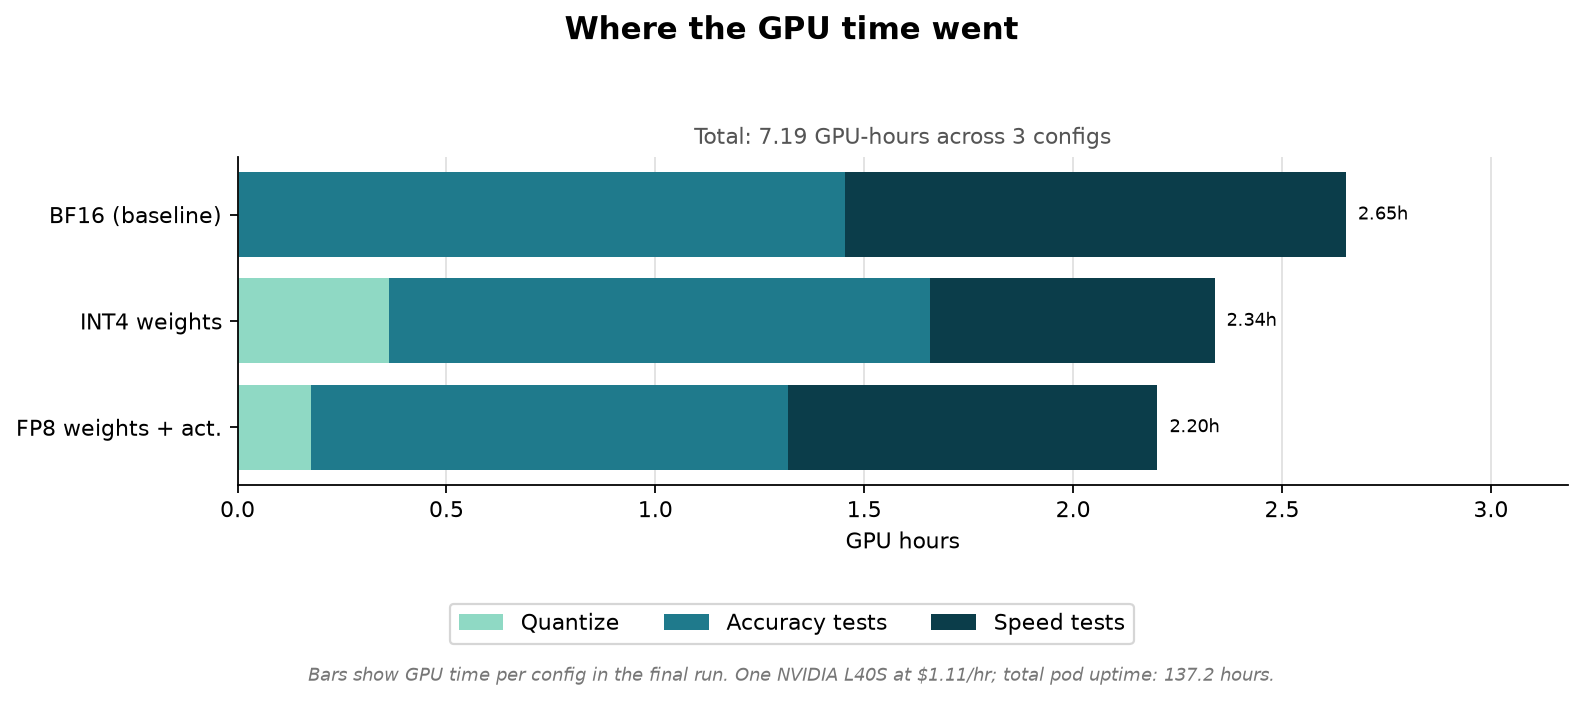
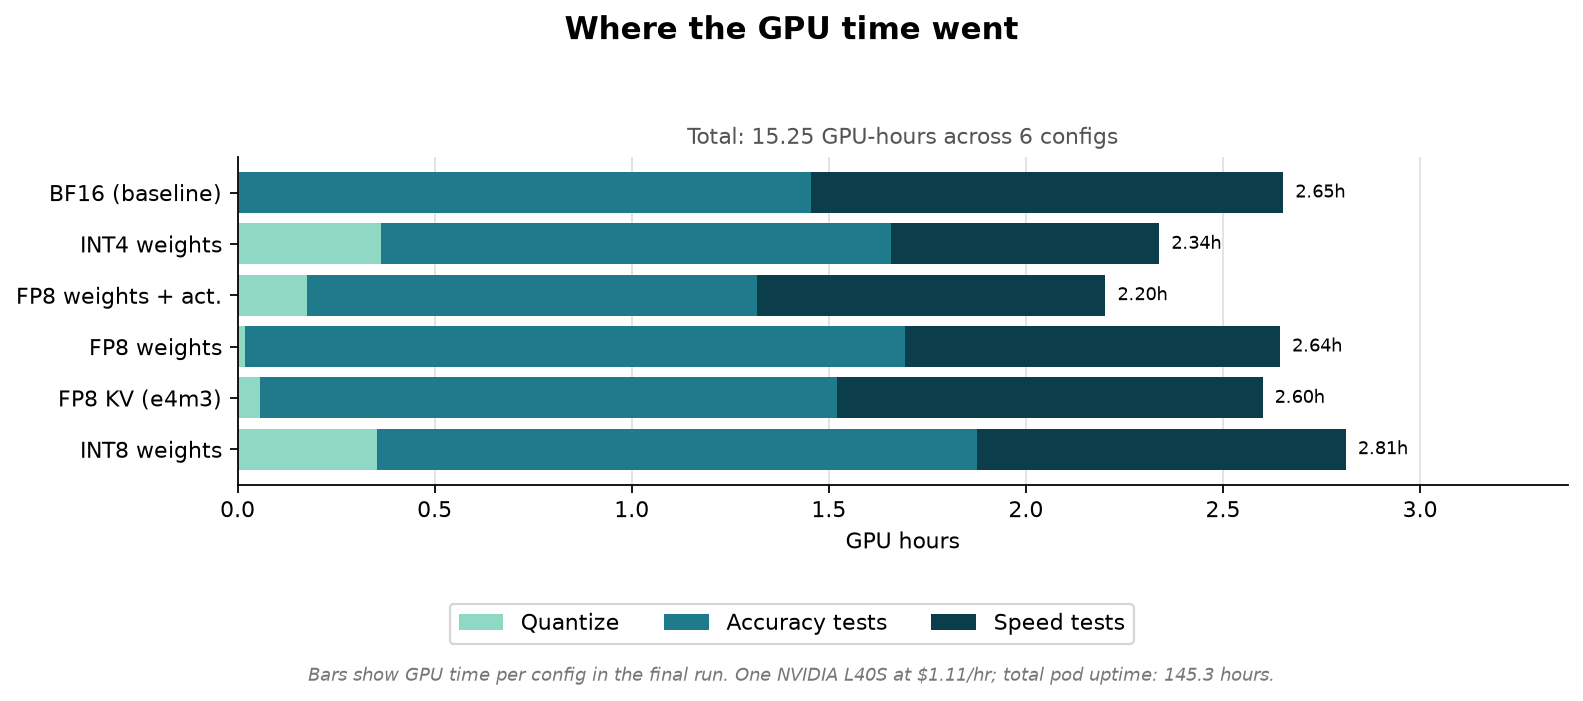
Update article figures through w8a16 (6/8 configs)

diff --git a/results/article/summary.md b/results/article/summary.md
@@ -3,5 +3,8 @@
 | BF16 (baseline) | 80.59% | +0.00 | 74.26% | +0.00 | 467,600 | +0% | 49.1 | 1864.0 | 1.00x | 1.00x | 11615.1 | 1.00x | 14.5 | 2.65 |
 | INT4 weights | 76.80% | -3.79 | 73.27% | -0.98 | 629,360 | +35% | 133.9 | 4388.6 | 2.73x | 2.35x | 12054.2 | 1.04x | 3.7 | 2.34 |
 | FP8 weights + act. | 80.14% | -0.45 | 73.80% | -0.46 | 568,960 | +22% | 73.4 | 2992.7 | 1.50x | 1.61x | 15218.5 | 1.31x | 3.5 | 2.20 |
+| FP8 weights | 79.61% | -0.99 | 74.06% | -0.19 | 573,952 | +23% | 85.9 | 3114.8 | 1.75x | 1.67x | 8644.1 | 0.74x | 4.5 | 2.64 |
+| FP8 KV (e4m3) | 0.00% | -80.59 | 23.79% | -50.46 | 935,200 | +100% | 49.5 | 1892.7 | 1.01x | 1.02x | 11947.6 | 1.03x | 2.0 | 2.60 |
+| INT8 weights | 78.32% | -2.27 | 74.18% | -0.07 | 573,952 | +23% | 80.3 | 3075.2 | 1.63x | 1.65x | 9750.5 | 0.84x | 4.2 | 2.81 |
 
-**Total: 7.19 GPU-hours, $7.98 at $1.11/hr**
+**Total: 15.25 GPU-hours, $16.93 at $1.11/hr**
